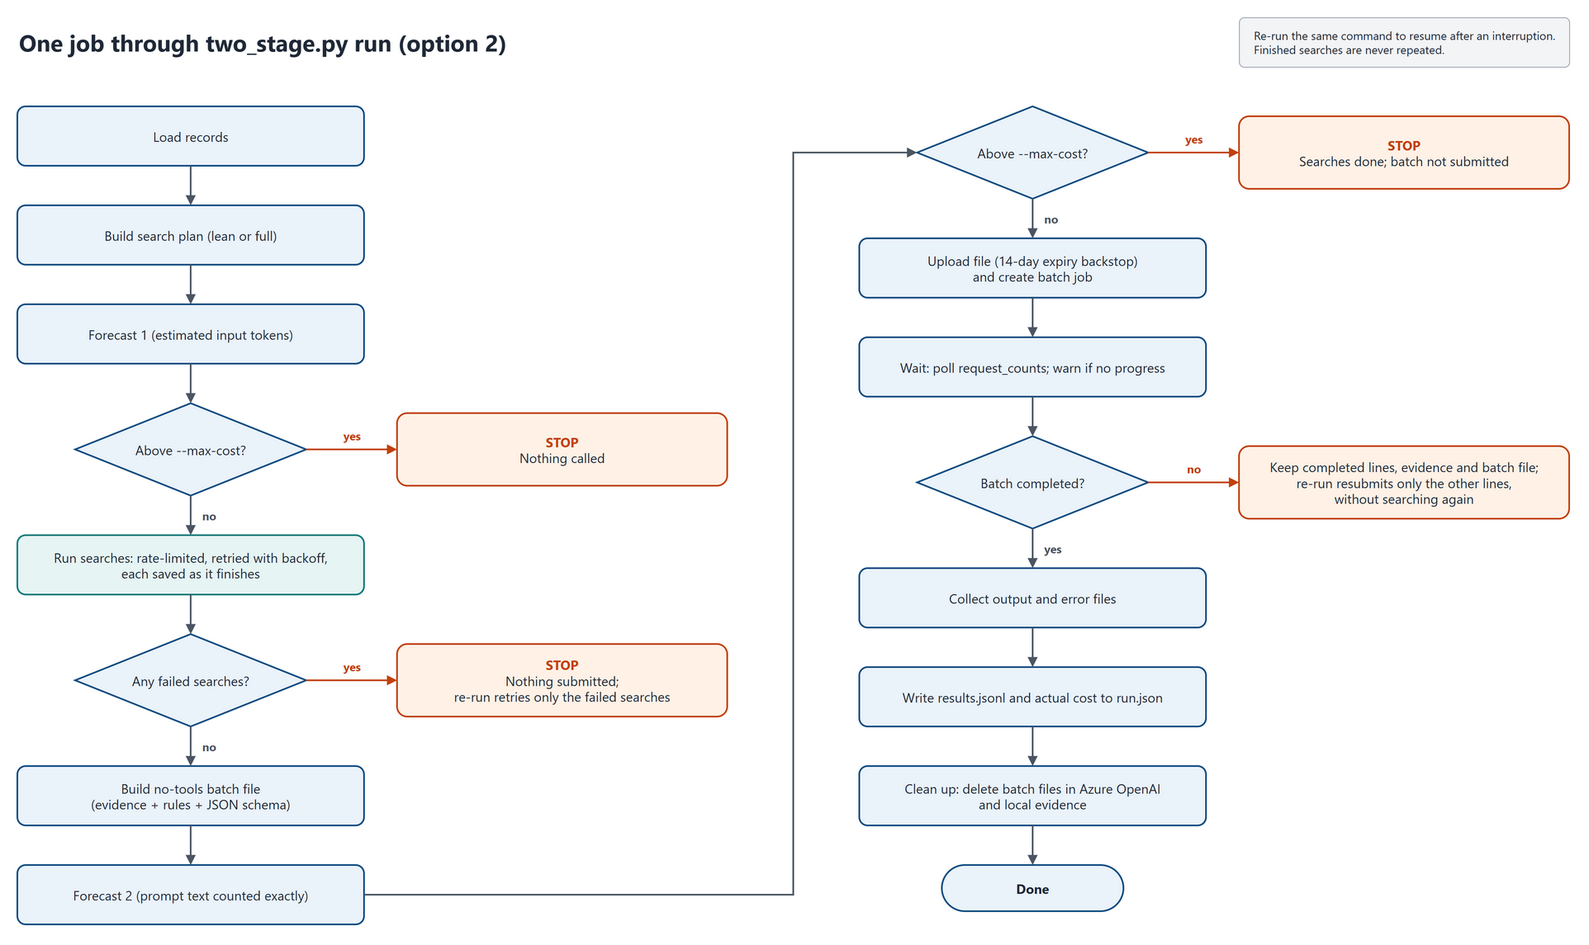
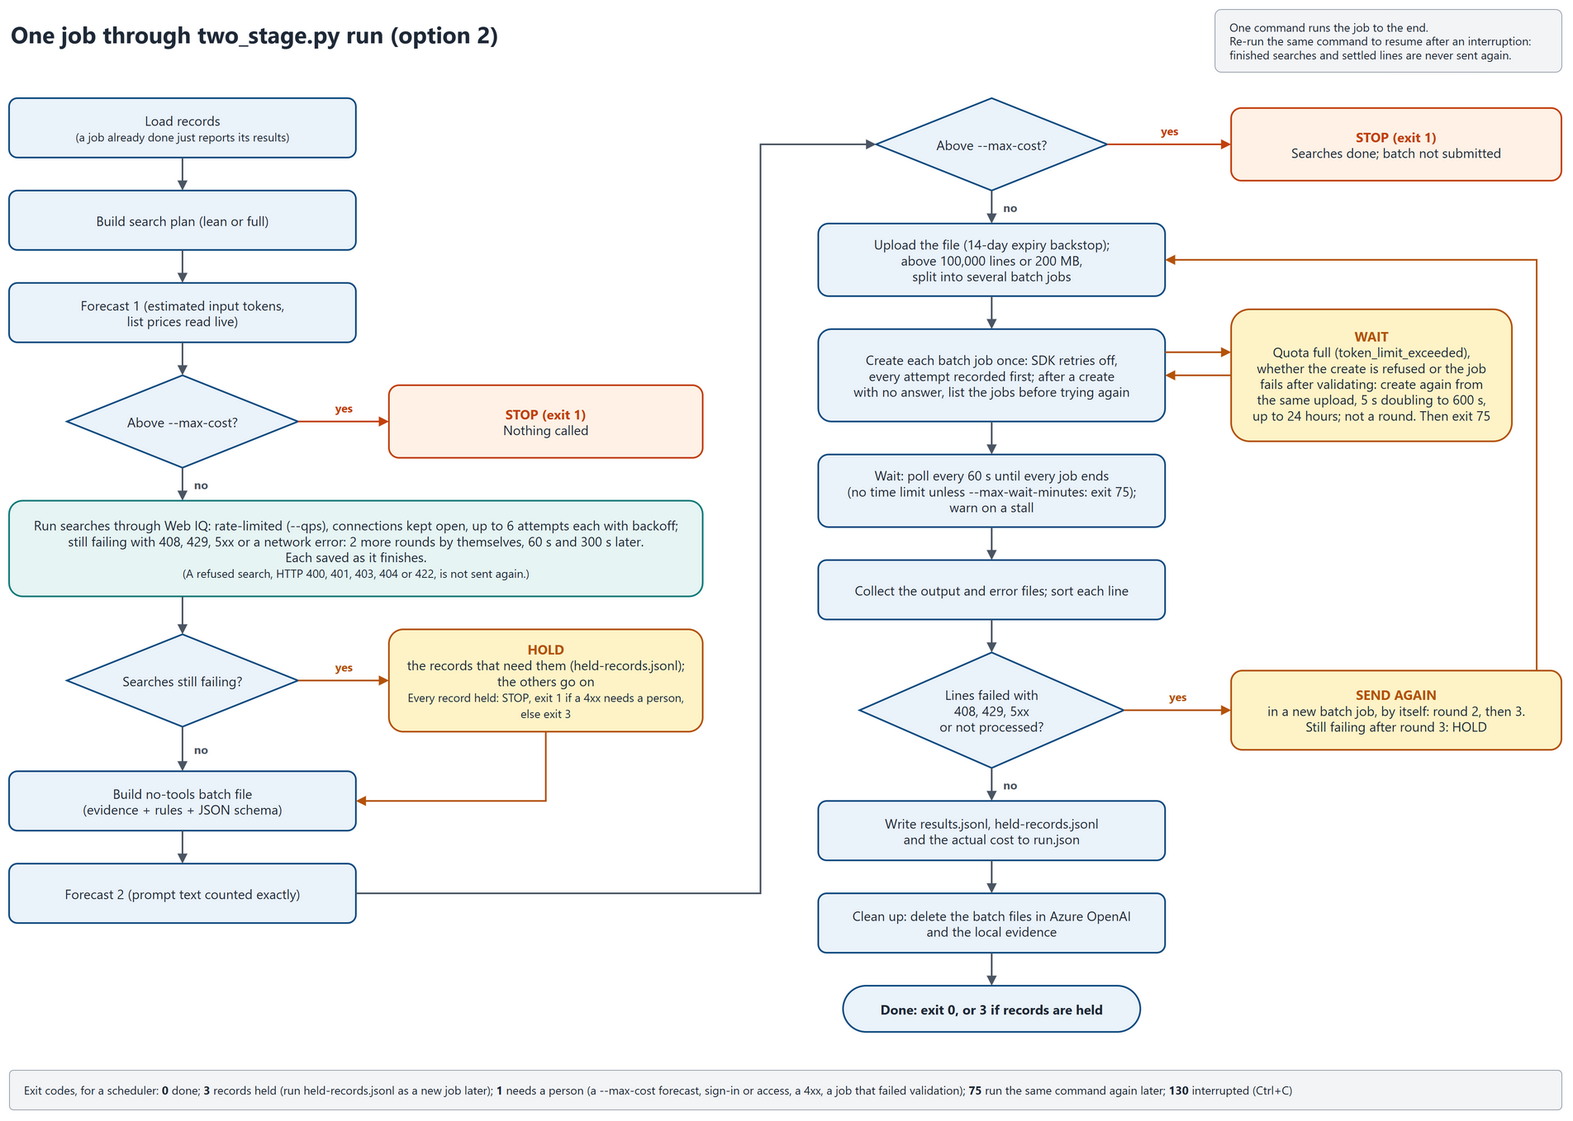
Add speed and live-check results; redraw the job flow
- diagrams/02-job-flow: redrawn for the one-command run. Stage 1 holds the
  records whose searches still fail and sends the rest; a full quota is
  waited out without counting as a round; each batch job is created once;
  lines that may pass go again in up to three rounds; every run ends with
  an exit code a scheduler can act on.
- docs/09: a Speed section (one search through a Foundry toolbox, REST and
  the built-in web search; Batch job time; Flex time per request) and the
  live runs of 2 November: each option's command ran once on the first 5
  sample records from a fresh clone and finished with exit code 0; running
  it again sent nothing.
- docs/03, README, the Flex README and the FAQ: the speed summary and the
  third Flex check.
- docs/03 and option 1's walkthrough: the record's market in user_location
  made no measurable difference to cost or speed in a separate test.

No code changes. Tests: 141 offline tests pass.

diff --git a/docs/09-results-on-the-sample.md b/docs/09-results-on-the-sample.md
@@ -1,6 +1,6 @@
 # 09 - Results on the sample
 
-Six batch jobs ran the same 23 records ([samples/brand-owner/records.jsonl](../samples/brand-owner/records.jsonl)) on Global Batch deployments in East US 2 on 31 October 2026. They're priced at the list prices of 31 October 2026, saved in [tests/fixtures/prices-2026-10-31.json](../tests/fixtures/prices-2026-10-31.json), and scored against [labels.jsonl](../samples/brand-owner/labels.jsonl). Every number here comes from the files in [results/2026-10-31](../results/2026-10-31/): one folder per run with `run.json` (settings, plan, forecasts, actual usage and cost), `results.jsonl` (one decision per record) and `metrics.jsonl` (per-line usage), plus [evaluation.md](../results/2026-10-31/evaluation.md).
+Six batch jobs ran the same 23 records ([samples/brand-owner/records.jsonl](../samples/brand-owner/records.jsonl)) on Global Batch deployments in East US 2 on 31 October 2026. They're priced at the list prices of 31 October 2026, saved in [tests/fixtures/prices-2026-10-31.json](../tests/fixtures/prices-2026-10-31.json), and scored against [labels.jsonl](../samples/brand-owner/labels.jsonl). Every number in the tables of those runs comes from the files in [results/2026-10-31](../results/2026-10-31/): one folder per run with `run.json` (settings, plan, forecasts, actual usage and cost), `results.jsonl` (one decision per record) and `metrics.jsonl` (per-line usage), plus [evaluation.md](../results/2026-10-31/evaluation.md). [Speed](#speed) and [the one-command runs of 2 November](#the-one-command-runs-live-2-november-2026) say where their numbers come from.
 
 **Twenty-three records show cost mechanics. They're too few to rank accuracy**: one record is about 4 points of record accuracy. Treat the accuracy columns as "no worse on this set", not as a benchmark.
 
@@ -50,6 +50,33 @@ What these show:
 - **The output assumption caused most of the gap.** It was 650 tokens per record; the runs used 278-336. [04](04-cost-model.md#forecasts-against-actual-cost) shows the effect of the updated defaults.
 - **The web-search runs have no forecast**: the model decided their search count.
 
+## Speed
+
+**On Global Batch, the batch scheduler sets the job time, not the search design.** Every run above took 7.1-9.4 minutes from creation to completion, whatever its design, and so did the one-command runs of 2 November ([below](#the-one-command-runs-live-2-november-2026)). On Batch, Web IQ saves cost, not time.
+
+**Where each record is a request you wait for, the design shows.** The first 5 sample records on gpt-6-sol with Flex processing, 2 requests at a time, 2 November 2026:
+
+| Flex run | Seconds per request, median (mean) | Before the first request |
+| --- | --- | --- |
+| With web search (option 1's lines) | 6.3 (9.8) | - |
+| With Web IQ evidence (option 2's lines) | 4.1 (5.1) | Stage 1: 6 searches in 8.8 seconds |
+
+Five records are too few to size the difference. On another workload, 37 records on the same model measured a median of 7.4 seconds per request with web search and 3.0 with Web IQ evidence.
+
+**One search.** Measured on 2 November 2026 from a laptop over the internet against test resources in East US 2, with 35 queries of another workload, each sent through every route in a random order, one call at a time. These are medians. From a host in Azure the times will differ; the differences between routes are the finding.
+
+| Route | Time per search | Against one built-in web search |
+| --- | --- | --- |
+| Built-in web search: the time one search adds to a response (gpt-6-sol, one forced search, paired with the same request without the tool) | 1.98 and 2.17 seconds (two runs) | - |
+| Web IQ through a Foundry toolbox, connection kept open | 0.42-0.43 seconds | 78-80% less time, 4.6-5 times faster |
+| Web IQ through a Foundry toolbox, reconnecting after 6 or more idle seconds | 1.60-1.88 seconds | 14-26% less |
+| Web IQ REST API | 0.13-0.22 seconds | 90-94% less |
+
+- **The toolbox adds about 0.3 seconds per search** with its connection open. Web IQ's own MCP server, called directly with the key, answered as fast as REST, so the extra time is the Foundry hop. Starting a toolbox session took about 0.5 seconds, once per run.
+- **Keep the connection open.** With the HTTP client's default keep-alive of 5 seconds, every toolbox call after 6 or more idle seconds opened a new connection. With 120 seconds, 10 of 10 such calls took 0.38-0.49 seconds. The code keeps idle connections for 120 seconds (`[webiq] keepalive_seconds`).
+- **A short burst still opens a connection for each search in flight**, because the client sends up to 5 at a time over HTTP/1.1. The 6 searches of each 2 November run averaged 1.5-1.6 seconds. In a long job, the connections are reused.
+- **Each built-in search also added about 8,140 input tokens** to the response in that test. That's why the web-search runs above read 8,713-10,230 input tokens per record, against 3,534-3,731 with planned search.
+
 ## Where each design went wrong
 
 | Record | Expected | Web search, mini | Bounded, mini | Two-stage full, mini | Two-stage lean, mini | Web search, gpt-5.4 | Two-stage lean, gpt-5.4 |
@@ -71,6 +98,23 @@ Reading the misses (`results.jsonl` in each run holds the model's own finding fo
 - **The lean rule** (R10, lean runs). As intended, the rule told the model to assume a brand whose name contains its owner's name belongs to that owner. Nestlé sold Pure Life in the US in 2021, so the rule is wrong for this record. A cheap plan with a known blind spot needs business sign-off.
 - **Mixed evidence** (R10, full plan and model-driven web search). The full plan's brand search returned pages describing the US rights as licensed alongside the sale, and the model applied the rule that licensees aren't owners. Model-driven web search on gpt-5.4 found Nestlé's announcement that the sale had closed and still concluded Nestlé owns the brand in the US. Nestlé's own press release lists Pure Life among the brands sold ([labels](../samples/brand-owner/labels.jsonl)). A market-specific template or a "prefer primary sources" rule are the fixes to test. Only the bounded run got R10 right.
 - **Name confusion** (R22, gpt-5.4-mini two-stage). The model treated results about Microsoft's fictitious "Contoso" as evidence about "Contoso Beverages Ltd" and suggested a US headquarters (the published `suggested_value`; its finding text was removed with the other fictional-record text). R23, with the same headquarters evidence, was answered correctly, and gpt-5.4 got both right. A name-matching rule ("a different full name is a different company") is the fix to test.
+
+## The one-command runs, live (2 November 2026)
+
+Once each option ran a job to the end by itself, each one's command ran once on the first 5 sample records, from a fresh clone of this repository, with nothing done by hand until it ended:
+
+| Option | The one command | Model | Ended | Wall time | $ per 1,000 records (forecast) | Facts right (of 10) |
+| --- | --- | --- | --- | --- | --- | --- |
+| Option 1, bounded web search | `bounded_web_search.py run` | gpt-5.4-mini, Global Batch | done, exit code 0 | 9.5 minutes; the batch job 8.7 | 31.58; 2.0 billed requests per record | 10 |
+| Option 2, lean plan through a toolbox | `two_stage.py run --plan lean --max-cost 1` | gpt-5.4-mini, Global Batch | done, exit code 0 | 9.7 minutes; 6 searches in 9.1 seconds, the batch job 8.8 minutes | 10.22 (10.52) | 10 |
+| Flex with web search | `flex_job.py run --design bounded-web-search` | gpt-6-sol, Flex | done, exit code 0 | 0.5 minutes | 36.63 | 9 |
+| Flex with Web IQ | `flex_job.py run --design two-stage --plan lean --max-cost 1` | gpt-6-sol, Flex | done, exit code 0 | 0.4 minutes; 6 searches in 8.8 seconds | 13.87 (16.65) | 10 |
+
+- **Each command ran its job to the end:** search, forecast, send, wait, collect, price, clean up and results, with no `--retry-failed` and no second command. Each Batch run deleted its 2 service files.
+- **Running each command again** reported the job done and sent nothing.
+- **The miss:** Flex with web search answered R02's owner `insufficient_evidence` within its two-search budget, the behaviour described for option 1 under [Where each design went wrong](#where-each-design-went-wrong).
+- **What these runs didn't need:** a throttling wait, a full quota, a second round, a split job or a held record. Those paths are covered by the offline tests in [tests/](../tests/) only.
+- The toolbox was created for the runs and deleted after them: HTTP 204, then 404 on a read.
 
 ## What the sample doesn't show
 

diff --git a/docs/03-options-compared.md b/docs/03-options-compared.md
@@ -11,7 +11,7 @@ Measured rows ran the 23 sample records on gpt-5.4-mini Global Batch on 31 Octob
 | 0. Model-driven web search (the common starting point) | Nothing | $43.12 | 2.87 Bing requests | 42 | The model decides search spend; known only afterwards |
 | 1. Bounded web search ([folder](../option-1-bounded-web-search/README.md)) | Line settings only | $40.33 | 2.52 Bing requests | 42 | Still model-driven: the cap limits tool calls, not the requests inside them |
 | **2. Search-then-batch, two-stage with Web IQ ([folder](../option-2-two-stage-web-iq/README.md))** | A search stage before submitting; no tools in the batch | **$9.78** (lean plan), $10.49 (full plan) | 1.13 or 1.26 Web IQ calls, fixed before submitting | 44 | Search templates and decision rules decide quality; evidence storage terms; Web IQ has no SLA |
-| Flex processing, for option 1 or 2 ([folder](../flex-web-search-and-web-iq/README.md)) | Each line sent as one synchronous request with `service_tier: "flex"`, instead of one batch file | Not measured on the sample; two 5-record checks on gpt-6-sol: $36.41-$36.68 with web search, $13.83-$13.85 with Web IQ | As the option | - | Preview with no SLA; your client paces the requests; fewer models (not gpt-5.4) |
+| Flex processing, for option 1 or 2 ([folder](../flex-web-search-and-web-iq/README.md)) | Each line sent as one synchronous request with `service_tier: "flex"`, instead of one batch file | Not measured on the sample; three 5-record checks on gpt-6-sol: $36.41-$36.68 with web search, $13.83-$13.87 with Web IQ | As the option | - | Preview with no SLA; your client paces the requests; fewer models (not gpt-5.4) |
 | A. Web IQ as an MCP tool inside batch lines | Tool type in each line, plus a Web IQ resource | Not measured on the sample | Model-driven | - | A key in every line; nothing throttles the calls; not documented for batch |
 | B. Foundry Web IQ tool, called synchronously | A runner calls the Foundry project endpoint per record | Not measured on the sample | Model-driven | - | It isn't batch: Standard token rates unless Flex processing (preview) applies, and you run the runner |
 | C. Decide shared facts once (add-on to option 2) | Validate each shared fact once per job, then join | Not measured | Fewer | - | Output-join logic; depends on how much your records repeat |
@@ -19,6 +19,8 @@ Measured rows ran the 23 sample records on gpt-5.4-mini Global Batch on 31 Octob
 Options 1 and 2, and Flex for either, have a folder each in this repository, with a README, a step-by-step walkthrough and the code. A, B and C are alternatives we considered and didn't build.
 
 Twenty-three records show cost mechanics. They're too few to rank accuracy: a two-fact difference is within noise. Measure accuracy on your own labeled set ([08](08-evaluate-quality.md)).
+
+**Speed.** On Global Batch, the batch scheduler sets the job time: every run on the sample took 7.1-9.4 minutes, whatever its design, so Web IQ saves cost, not time. One Web IQ search through a Foundry toolbox took about 0.4 seconds with its connection open, against about 2 seconds that one built-in web search adds to a response. On Flex, where you wait for each record, that shows: on the first 5 sample records, each request took a median of 4.1 seconds with Web IQ evidence against 6.3 with web search ([09](09-results-on-the-sample.md#speed)).
 
 ## Option 1 - Bound the built-in web search
 
@@ -39,6 +41,7 @@ Also use the `web_search` tool type, not `web_search_preview`, which is "support
 - The cap limits tool-call items, not the requests inside each call: 1.48 call items per record still produced 2.52 billed requests.
 - A cap can only remove searches the model was making. A model that searches more by default leaves more to cut.
 - Two `owner_hq` facts came back `insufficient_evidence`: within the two-search budget, the model didn't find a page that stated the headquarters.
+- **The record's market in `user_location` changed neither cost nor speed measurably** in a separate test on 2 November 2026: 37 records of another workload, bounded lines on gpt-5.4 Global Batch, two runs with the country and two without. Billed requests per record were 2.68 and 2.73 with it and 2.81 and 2.41 without, and every run's median was 13 seconds per response: the two arms differed less than two runs of the same arm. Learn says the location refines search results ([Web search: control results by user location](https://learn.microsoft.com/en-us/azure/foundry/openai/how-to/web-search#control-results-by-user-location)), so the lines keep it.
 
 **When to choose it.** When you need a change this week with no new service, and `analyze` shows the model making many searches per line.
 
@@ -106,7 +109,7 @@ Flex processing (preview) runs a request at about half the Standard token price,
 - It supports fewer models: not gpt-5.4 or gpt-5.4-mini when we checked, so moving a job to Flex can also mean changing its model.
 - gpt-6-sol charges for prompt-cache writes, which a short no-tools prompt can pay for without reusing them.
 
-**What we measured.** Not measured on the 23-record sample. Two live checks on the first 5 records, before and after this repository's folders were reorganized, completed every line on gpt-6-sol: $36.68 and $36.41 per 1,000 records with bounded web search, and $13.83 and $13.85 with Web IQ.
+**What we measured.** Not measured on the 23-record sample. Three live checks on the first 5 records completed every line on gpt-6-sol: two on 1 November 2026, before and after this repository's folders were reorganized, and one on 2 November with the one-command code. They cost $36.68, $36.41 and $36.63 per 1,000 records with bounded web search, and $13.83, $13.85 and $13.87 with Web IQ. In the third, each request took a median of 6.3 seconds with web search and 4.1 with Web IQ evidence ([09](09-results-on-the-sample.md#speed)).
 
 ## Rejected alternatives
 

diff --git a/README.md b/README.md
@@ -35,6 +35,8 @@ Why it's cheaper:
 - **Search count.** It fell from 2.5-2.9 billed requests to 1.13 (lean) or 1.26 (full) planned calls per record, because shared facts are searched once per job.
 - **Input size.** It's less than half, because trimmed evidence replaces the model's own search loop ([04](docs/04-cost-model.md)).
 
+**Speed.** On Global Batch, the batch scheduler sets the job time: every run on the sample took 7.1-9.4 minutes, whatever its design, so Web IQ saves cost, not time. A Web IQ search through a Foundry toolbox took about 0.4 seconds with its connection open, against about 2 seconds that a built-in web search adds to a response. So with Flex processing, where you wait for each record, Web IQ evidence made each request faster ([09](docs/09-results-on-the-sample.md#speed)).
+
 **Twenty-three records show the cost mechanics, not accuracy.** On this set, search-then-batch was no less accurate. [09](docs/09-results-on-the-sample.md#where-each-design-went-wrong) explains every miss, including a deliberate trap for the lean plan.
 
 ## Choose an option
@@ -140,7 +142,7 @@ Read in this order the first time:
 - **Storing Web IQ content.** The terms restrict storing content. This sample keeps evidence only for a job's duration; confirm that fits your use with your legal team ([06](docs/06-security-privacy-and-terms.md#web-iq-terms-storing-content)).
 - **Evidence age.** Evidence is minutes to hours old when the batch runs.
 - **Skip rules.** The lean plan's skip rule is a business decision with a known blind spot (R10 in the sample).
-- **Not tested:** Data Zone Batch, the Entra ID REST path, other models, a second pass for `insufficient_evidence` records, and jobs large enough to hit rate limits. Flex processing was checked live on 5 records only, not measured on the sample. The automatic rounds, split jobs, quota waits and exit codes are covered by offline tests only.
+- **Not tested:** Data Zone Batch, the Entra ID REST path, other models, a second pass for `insufficient_evidence` records, and jobs large enough to hit rate limits. Flex processing was checked live on 5 records only, not measured on the sample. Each option's one command ran live on 5 records on 2 November 2026 and finished with exit code 0 ([09](docs/09-results-on-the-sample.md#the-one-command-runs-live-2-november-2026)). Those runs needed no automatic round, quota wait, split job or held record, so those paths and the other exit codes are covered by offline tests only.
 
 ## Contributing
 

diff --git a/docs/faq.md b/docs/faq.md
@@ -37,7 +37,7 @@ The batch side can use your Azure networking. Web IQ has only a public endpoint,
 The code doesn't care about the deployment type. Point `--deployment` at a Data Zone Batch deployment. To price it, add an entry to [settings.toml](../shared/settings.toml) that names the Data Zone meters, for example `[pricing.models."gpt-5.4-mini-datazone".global_batch]` with the `5.4 mini Batch Inp Dz 1M Tokens` meters (the code reads the batch tier under that name), give it an output-token assumption under `[forecast.output_tokens_per_line]`, and pass `--price-model gpt-5.4-mini-datazone`. The Data Zone meters are listed about 10% higher. Not tested here.
 
 **Can I use Flex processing instead of Batch?**
-Yes: use [flex_job.py](../flex-web-search-and-web-iq/flex_job.py) with `--design bounded-web-search` (option 1's lines) or `--design two-stage` (option 2's), point `--deployment` at a Global Standard deployment of a Flex-capable model such as gpt-6-sol, and pass `--price-model gpt-6-sol`. Each line becomes a synchronous request with `service_tier: "flex"`; the lines and the results stay the same. Flex is preview with no SLA, shares the deployment's quota with Standard requests, and supported fewer models when we checked (not gpt-5.4). It wasn't measured on the 23-record sample; two 5-record live checks completed every line ([Flex with web search or Web IQ](../flex-web-search-and-web-iq/README.md)).
+Yes: use [flex_job.py](../flex-web-search-and-web-iq/flex_job.py) with `--design bounded-web-search` (option 1's lines) or `--design two-stage` (option 2's), point `--deployment` at a Global Standard deployment of a Flex-capable model such as gpt-6-sol, and pass `--price-model gpt-6-sol`. Each line becomes a synchronous request with `service_tier: "flex"`; the lines and the results stay the same. Flex is preview with no SLA, shares the deployment's quota with Standard requests, and supported fewer models when we checked (not gpt-5.4). It wasn't measured on the 23-record sample; three 5-record live checks completed every line ([Flex with web search or Web IQ](../flex-web-search-and-web-iq/README.md)).
 
 **Which models were tested?**
 gpt-5.4-mini and gpt-5.4, on Global Batch, on 31 October 2026; gpt-6-sol on Flex, in 5-record checks on 1 November 2026. [settings.toml](../shared/settings.toml) also names the gpt-5.4-nano, gpt-5 and gpt-5-mini meters, so you can forecast with them; those models weren't tested with this sample.

diff --git a/flex-web-search-and-web-iq/README.md b/flex-web-search-and-web-iq/README.md
@@ -7,9 +7,9 @@ Run either design on [Flex processing](https://learn.microsoft.com/en-us/azure/f
 | **Flex with web search** | `python flex_job.py run ... --design bounded-web-search` | [Option 1](../option-1-bounded-web-search/README.md)'s lines, sent one by one |
 | **Flex with Web IQ** | `python flex_job.py run ... --design two-stage` | Stage 1 is unchanged: [option 2](../option-2-two-stage-web-iq/README.md)'s Web IQ searches. Only stage 2 changes: its no-tools lines, sent one by one |
 
-**Not measured on the 23-record sample.** Live checks on 1 November 2026 ran both variants on the first 5 sample records, on gpt-6-sol in East US 2: once before this repository's folders were reorganized, and once after. Every line completed with no HTTP 429, and all 10 facts in each run matched the labels:
-- Flex with web search cost $36.68, then $36.41, per 1,000 records.
-- Flex with Web IQ cost $13.83, then $13.85, per 1,000 records, against forecasts of $16.64 and $16.65.
+**Not measured on the 23-record sample.** Live checks ran both variants on the first 5 sample records, on gpt-6-sol in East US 2: twice on 1 November 2026, before and after this repository's folders were reorganized, and once on 2 November with the one-command code, from a fresh clone. Every line completed with no HTTP 429. All 10 facts matched the labels in every run but one: on 2 November, Flex with web search answered R02's owner `insufficient_evidence` within its two-search budget.
+- Flex with web search cost $36.68, $36.41, then $36.63 per 1,000 records. On 2 November each request took a median of 6.3 seconds.
+- Flex with Web IQ cost $13.83, $13.85, then $13.87 per 1,000 records, against forecasts of $16.64, $16.65 and $16.65. On 2 November each request took a median of 4.1 seconds, after 6 searches in 8.8 seconds ([09](../docs/09-results-on-the-sample.md#speed)).
 
 Five records check that the code works end to end; they can't rank the variants or compare them with Batch.
 

diff --git a/option-1-bounded-web-search/WALKTHROUGH.md b/option-1-bounded-web-search/WALKTHROUGH.md
@@ -39,7 +39,7 @@ It prints `Wrote 23 bounded-web-search lines to bounded.jsonl` and calls nothing
 3. [build_lines](../shared/pipeline.py#L204) calls [web_search_line](web_search_lines.py#L16) once per record:
    - [line 32](web_search_lines.py#L32) takes the prompts from the workload ([web_search_prompts](../shared/workloads/brand_owner.py#L119)): the task, the decision rules and a three-line search budget.
    - [Line 33](web_search_lines.py#L33) adds the current `web_search` tool, not `web_search_preview`, which Learn calls "supported but not recommended".
-   - [Line 44](web_search_lines.py#L44) sets `user_location` to the record's market ([user_country](../shared/workloads/brand_owner.py#L129)), to steer results to that market.
+   - [Line 44](web_search_lines.py#L44) sets `user_location` to the record's market ([user_country](../shared/workloads/brand_owner.py#L129)), to steer results to that market. Don't expect it to save cost or time: in a test on another workload it made no measurable difference to either ([03](../docs/03-options-compared.md#option-1---bound-the-built-in-web-search)).
    - [Line 45](web_search_lines.py#L45) sets `max_tool_calls`; the API ignores tool calls beyond it.
    - [Line 46](web_search_lines.py#L46) sets the reasoning effort; reasoning tokens are billed as output tokens.
    - [Line 47](web_search_lines.py#L47) adds the strict JSON schema ([output_format](../shared/workloads/brand_owner.py#L100)).
